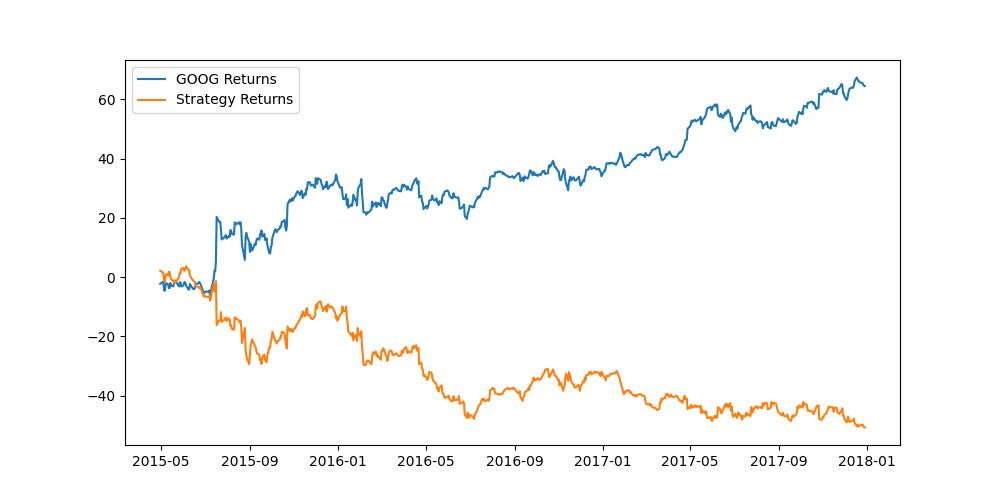
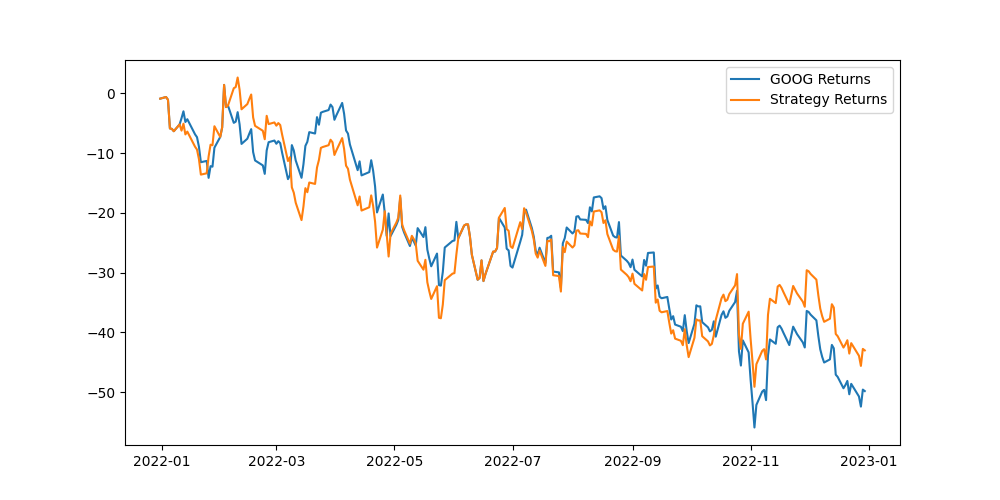
Changing to yahoo finance and making data more recent for machine learning strategies

diff --git a/3. MachineLearningStrategies/Lasso/Lasso.py b/3. MachineLearningStrategies/Lasso/Lasso.py
@@ -4,16 +4,10 @@ import matplotlib.pyplot as plt
 from sklearn.model_selection import train_test_split
 
 from pandas_datareader import data
-
-def load_financial_data(start_date, end_date, output_file):
-    try:
-        df = pd.read_pickle(output_file)
-        print('File data found...reading GOOG data')
-    except FileNotFoundError:
-        print('File not found...downloading the GOOG data')
-        df = data.DataReader('GOOG', 'yahoo', start_date, end_date)
-        df.to_pickle(output_file)
-    return df
+import yfinance as yf
+start_date = '2018-01-01'
+end_date = '2023-01-01'
+google_data_frame = yf.download('GOOG', start = start_date, end = end_date)
 
 def create_classification_trading_condition(df):
     df['Open-Close'] = df.Open - df.Close
@@ -35,12 +29,7 @@ def create_regression_trading_condition(df):
 def create_train_split_group(X, Y, split_ratio=0.8):
     return train_test_split(X, Y, shuffle=False, train_size=split_ratio)
 
-goog_data = load_financial_data(
-    start_date='2001-01-01',
-    end_date='2018-01-01',
-    output_file='goog_data_large.pkl')
-
-goog_data, X, Y = create_regression_trading_condition(goog_data)
+google_data_frame, X, Y = create_regression_trading_condition(google_data_frame)
 
 X_train,X_test,Y_train,Y_test=create_train_split_group(X,Y,split_ratio=0.8)
 
@@ -53,11 +42,11 @@ lasso.fit(X_train, Y_train)
 # The coefficients
 print('Coefficients: \n', lasso.coef_)
 
-goog_data['Predicted_Signal'] = lasso.predict(X)
-goog_data['GOOG_Returns'] = np.log(
-    goog_data['Close'] / goog_data['Close'].shift(1))
+google_data_frame['Predicted_Signal'] = lasso.predict(X)
+google_data_frame['GOOG_Returns'] = np.log(
+    google_data_frame['Close'] / google_data_frame['Close'].shift(1))
 
-print(goog_data.head())
+print(google_data_frame.head())
 def calculate_return(df, split_value, symbol):
     cum_goog_return = df[split_value:]['%s_Returns' % symbol].cumsum() * 100
     df['Strategy_Returns'] = df['%s_Returns' %
@@ -71,9 +60,9 @@ def calculate_strategy_return(df, split_value, symbol):
 
 
 cum_goog_return = calculate_return(
-    goog_data, split_value=len(X_train), symbol='GOOG')
+    google_data_frame, split_value=len(X_train), symbol='GOOG')
 cum_strategy_return = calculate_strategy_return(
-    goog_data, split_value=len(X_train), symbol='GOOG')
+    google_data_frame, split_value=len(X_train), symbol='GOOG')
 
 
 def plot_shart(cum_symbol_return, cum_strategy_return, symbol):

diff --git a/3. MachineLearningStrategies/Ridge/Ridge.py b/3. MachineLearningStrategies/Ridge/Ridge.py
@@ -5,15 +5,6 @@ from sklearn.model_selection import train_test_split
 
 from pandas_datareader import data
 
-def load_financial_data(start_date, end_date, output_file):
-    try:
-        df = pd.read_pickle(output_file)
-        print('File data found...reading GOOG data')
-    except FileNotFoundError:
-        print('File not found...downloading the GOOG data')
-        df = data.DataReader('GOOG', 'yahoo', start_date, end_date)
-        df.to_pickle(output_file)
-    return df
 
 def create_classification_trading_condition(df):
     df['Open-Close'] = df.Open - df.Close
@@ -35,12 +26,12 @@ def create_regression_trading_condition(df):
 def create_train_split_group(X, Y, split_ratio=0.8):
     return train_test_split(X, Y, shuffle=False, train_size=split_ratio)
 
-goog_data = load_financial_data(
-    start_date='2001-01-01',
-    end_date='2018-01-01',
-    output_file='goog_data_large.pkl')
+import yfinance as yf
+start_date = '2018-01-01'
+end_date = '2023-01-01'
+google_data_frame = yf.download('GOOG', start = start_date, end = end_date)
 
-goog_data, X, Y = create_regression_trading_condition(goog_data)
+google_data_frame, X, Y = create_regression_trading_condition(google_data_frame)
 
 X_train,X_test,Y_train,Y_test=create_train_split_group(X,Y,split_ratio=0.8)
 
@@ -53,11 +44,11 @@ ridge.fit(X_train, Y_train)
 # The coefficients
 print('Coefficients: \n', ridge.coef_)
 
-goog_data['Predicted_Signal'] = ridge.predict(X)
-goog_data['GOOG_Returns'] = np.log(
-    goog_data['Close'] / goog_data['Close'].shift(1))
+google_data_frame['Predicted_Signal'] = ridge.predict(X)
+google_data_frame['GOOG_Returns'] = np.log(
+    google_data_frame['Close'] / google_data_frame['Close'].shift(1))
 
-print(goog_data.head())
+print(google_data_frame.head())
 def calculate_return(df, split_value, symbol):
     cum_goog_return = df[split_value:]['%s_Returns' % symbol].cumsum() * 100
     df['Strategy_Returns'] = df['%s_Returns' %
@@ -71,9 +62,9 @@ def calculate_strategy_return(df, split_value, symbol):
 
 
 cum_goog_return = calculate_return(
-    goog_data, split_value=len(X_train), symbol='GOOG')
+    google_data_frame, split_value=len(X_train), symbol='GOOG')
 cum_strategy_return = calculate_strategy_return(
-    goog_data, split_value=len(X_train), symbol='GOOG')
+    google_data_frame, split_value=len(X_train), symbol='GOOG')
 
 
 def plot_shart(cum_symbol_return, cum_strategy_return, symbol):

diff --git a/3. MachineLearningStrategies/OrdinaryLeastSquares/OrdinaryLeastSquares.py b/3. MachineLearningStrategies/OrdinaryLeastSquares/OrdinaryLeastSquares.py
@@ -4,16 +4,8 @@ import matplotlib.pyplot as plt
 from sklearn.model_selection import train_test_split
 
 from pandas_datareader import data
+import yfinance as yf
 
-def load_financial_data(start_date, end_date, output_file):
-    try:
-        df = pd.read_pickle(output_file)
-        print('File data found...reading GOOG data')
-    except FileNotFoundError:
-        print('File not found...downloading the GOOG data')
-        df = data.DataReader('GOOG', 'yahoo', start_date, end_date)
-        df.to_pickle(output_file)
-    return df
 
 def create_classification_trading_condition(df):
     df['Open-Close'] = df.Open - df.Close
@@ -34,12 +26,12 @@ def create_regression_trading_condition(df):
 def create_train_split_group(X, Y, split_ratio=0.8):
     return train_test_split(X, Y, shuffle=False, train_size=split_ratio)
 
-goog_data = load_financial_data(
-start_date='2001-01-01',
-end_date='2018-01-01',
-output_file='goog_data_large.pkl')
 
-goog_data, X, Y = create_regression_trading_condition(goog_data)
+start_date = '2018-01-01'
+end_date = '2023-01-01'
+google_data_frame = yf.download('GOOG', start = start_date, end = end_date)
+
+google_data_frame, X, Y = create_regression_trading_condition(google_data_frame)
 
 X_train,X_test,Y_train,Y_test=create_train_split_group(X,Y,split_ratio=0.8)
 
@@ -49,10 +41,10 @@ ols = linear_model.LinearRegression()
 ols.fit(X_train,Y_train)
 print('Coeffecients: \n', ols.coef_)
 
-goog_data['Predicted_Signal'] = ols.predict(X)
-goog_data['GOOG_Returns'] = np.log(goog_data['Close'] / goog_data['Close'].shift(1))
+google_data_frame['Predicted_Signal'] = ols.predict(X)
+google_data_frame['GOOG_Returns'] = np.log(google_data_frame['Close'] / google_data_frame['Close'].shift(1))
 
-print(goog_data.head())
+print(google_data_frame.head())
 
 def calculate_return(df, split_value, symbol):
     goog_return = df[split_value:]['%s_Returns' % symbol].cumsum() * 100
@@ -66,9 +58,9 @@ def calculate_strategy_return(df, split_value, symbol):
 
 
 goog_return = calculate_return(
-    goog_data, split_value=len(X_train), symbol='GOOG')
+    google_data_frame, split_value=len(X_train), symbol='GOOG')
 strategy_return = calculate_strategy_return(
-    goog_data, split_value=len(X_train), symbol='GOOG')
+    google_data_frame, split_value=len(X_train), symbol='GOOG')
 
 
 def plot_shart(cum_symbol_return, cum_strategy_return, symbol):

diff --git a/3. MachineLearningStrategies/KNearestNeighbors/KNearestNeighbors.py b/3. MachineLearningStrategies/KNearestNeighbors/KNearestNeighbors.py
@@ -7,21 +7,18 @@ from sklearn.metrics import accuracy_score
 
 from pandas_datareader import data
 import yfinance as yf
+start_date = '2018-01-01'
+end_date = '2023-01-01'
+google_data_frame = yf.download('GOOG', start = start_date, end = end_date)
 
-start_date = '2000-01-01'
-end_date = '2023-07-01'
-SRC_DATA_FILENAME='goog_data_large.pkl'
-
-goog_data = yf.download('GOOG', start = start_date, end = end_date)
-
-goog_data['Open-Close']=goog_data.Open-goog_data.Close
-goog_data['High-Low']=goog_data.High-goog_data.Low
-goog_data=goog_data.dropna()
-X=goog_data[['Open-Close','High-Low']]
-Y=np.where(goog_data['Close'].shift(-1)>goog_data['Close'],1,-1)
+google_data_frame['Open-Close']=google_data_frame.Open-google_data_frame.Close
+google_data_frame['High-Low']=google_data_frame.High-google_data_frame.Low
+google_data_frame=google_data_frame.dropna()
+X=google_data_frame[['Open-Close','High-Low']]
+Y=np.where(google_data_frame['Close'].shift(-1)>google_data_frame['Close'],1,-1)
 
 split_ratio=0.8
-split_value=int(split_ratio * len(goog_data))
+split_value=int(split_ratio * len(google_data_frame))
 X_train=X[:split_value]
 Y_train=Y[:split_value]
 X_test=X[split_value:]
@@ -36,9 +33,9 @@ accuracy_test = accuracy_score(Y_test, knn.predict(X_test))
 
 
 
-goog_data['Predicted_Signal']=knn.predict(X)
-goog_data['GOOG_Returns']=np.log(goog_data['Close']/
-                                 goog_data['Close'].shift(1))
+google_data_frame['Predicted_Signal']=knn.predict(X)
+google_data_frame['GOOG_Returns']=np.log(google_data_frame['Close']/
+                                 google_data_frame['Close'].shift(1))
 
 
 def calculate_return(df,split_value,symbol):
@@ -50,8 +47,8 @@ def calculate_strategy_return(df,split_value):
     cum_strategy_return = df[split_value:]['Strategy_Returns'].cumsum() * 100
     return cum_strategy_return
 
-cum_goog_return=calculate_return(goog_data,split_value=len(X_train),symbol='GOOG')
-cum_strategy_return= calculate_strategy_return(goog_data,split_value=len(X_train))
+cum_goog_return=calculate_return(google_data_frame,split_value=len(X_train),symbol='GOOG')
+cum_strategy_return= calculate_strategy_return(google_data_frame,split_value=len(X_train))
 
 
 def plot_shart(cum_symbol_return, cum_strategy_return, symbol):

diff --git a/3. MachineLearningStrategies/SupportVectorMachine/SupportVectorMachine.py b/3. MachineLearningStrategies/SupportVectorMachine/SupportVectorMachine.py
@@ -8,19 +8,12 @@ from sklearn.model_selection import train_test_split
 
 from pandas_datareader import data
 
-def load_financial_data(start_date, end_date,output_file):
-    try:
-        df = pd.read_pickle(output_file)
-        print('File data found...reading GOOG data')
-    except FileNotFoundError:
-        print('File not found...downloading the GOOG data')
-        df = data.DataReader('GOOG', 'yahoo', start_date, end_date)
-        df.to_pickle(output_file)
-    return df
 
-goog_data=load_financial_data(start_date='2001-01-01',
-                    end_date = '2018-01-01',
-                    output_file='goog_data_large.pkl')
+
+import yfinance as yf
+start_date = '2018-01-01'
+end_date = '2023-01-01'
+google_data_frame = yf.download('GOOG', start = start_date, end = end_date)
 
 
 
@@ -36,7 +29,7 @@ def create_trading_condition(df):
 def create_train_split_group(X,Y,split_ratio=0.8):
     return train_test_split(X,Y,shuffle=False,train_size=split_ratio)
 
-X,Y=create_trading_condition(goog_data)
+X,Y=create_trading_condition(google_data_frame)
 
 X_train,X_test,Y_train,Y_test=\
     create_train_split_group(X,Y,split_ratio=0.8)
@@ -45,9 +38,9 @@ X_train,X_test,Y_train,Y_test=\
 svc=SVC()
 svc.fit(X_train, Y_train)
 
-goog_data['Predicted_Signal']=svc.predict(X)
-goog_data['GOOG_Returns']=np.log(goog_data['Close']/
-                                 goog_data['Close'].shift(1))
+google_data_frame['Predicted_Signal']=svc.predict(X)
+google_data_frame['GOOG_Returns']=np.log(google_data_frame['Close']/
+                                 google_data_frame['Close'].shift(1))
 
 
 def calculate_return(df,split_value,symbol):
@@ -59,8 +52,8 @@ def calculate_strategy_return(df,split_value):
     cum_strategy_return = df[split_value:]['Strategy_Returns'].cumsum() * 100
     return cum_strategy_return
 
-cum_goog_return=calculate_return(goog_data,split_value=len(X_train),symbol='GOOG')
-cum_strategy_return= calculate_strategy_return(goog_data,split_value=len(X_train))
+cum_goog_return=calculate_return(google_data_frame,split_value=len(X_train),symbol='GOOG')
+cum_strategy_return= calculate_strategy_return(google_data_frame,split_value=len(X_train))
 
 
 def plot_shart(cum_symbol_return, cum_strategy_return, symbol):

diff --git a/3. MachineLearningStrategies/Logistic/Logistic.py b/3. MachineLearningStrategies/Logistic/Logistic.py
@@ -6,21 +6,18 @@ from sklearn.linear_model import LogisticRegression
 
 
 import yfinance as yf
-
-start_date = '2005-01-01'
+start_date = '2018-01-01'
 end_date = '2023-01-01'
-SRC_DATA_FILENAME='goog_data_large.pkl'
+google_data_frame = yf.download('GOOG', start = start_date, end = end_date)
 
-goog_data = yf.download('GOOG', start = start_date, end = end_date)
-
-goog_data['Open-Close']=goog_data.Open-goog_data.Close
-goog_data['High-Low']=goog_data.High-goog_data.Low
-goog_data=goog_data.dropna()
-X=goog_data[['Open-Close','High-Low']]
-Y=np.where(goog_data['Close'].shift(-1)>goog_data['Close'],1,-1)
+google_data_frame['Open-Close']=google_data_frame.Open-google_data_frame.Close
+google_data_frame['High-Low']=google_data_frame.High-google_data_frame.Low
+google_data_frame=google_data_frame.dropna()
+X=google_data_frame[['Open-Close','High-Low']]
+Y=np.where(google_data_frame['Close'].shift(-1)>google_data_frame['Close'],1,-1)
 
 split_ratio=0.8
-split_value=int(split_ratio * len(goog_data))
+split_value=int(split_ratio * len(google_data_frame))
 X_train=X[:split_value]
 Y_train=Y[:split_value]
 X_test=X[split_value:]
@@ -34,8 +31,8 @@ accuracy_test = accuracy_score(Y_test, logistic.predict(X_test))
 print(accuracy_train, accuracy_test)
 
 
-goog_data['Predicted_Signal']=logistic.predict(X)
-goog_data['GOOG_Returns']=np.log(goog_data['Close']/goog_data['Close'].shift(1))
+google_data_frame['Predicted_Signal']=logistic.predict(X)
+google_data_frame['GOOG_Returns']=np.log(google_data_frame['Close']/google_data_frame['Close'].shift(1))
 
 
 def calculate_return(df,split_value,symbol):
@@ -47,8 +44,8 @@ def calculate_strategy_return(df,split_value):
     cum_strategy_return = df[split_value:]['Strategy_Returns'].cumsum() * 100
     return cum_strategy_return
 
-cum_goog_return=calculate_return(goog_data,split_value=len(X_train),symbol='GOOG')
-cum_strategy_return= calculate_strategy_return(goog_data,split_value=len(X_train))
+cum_goog_return=calculate_return(google_data_frame,split_value=len(X_train),symbol='GOOG')
+cum_strategy_return= calculate_strategy_return(google_data_frame,split_value=len(X_train))
 
 
 def plot_shart(cum_symbol_return, cum_strategy_return, symbol):

diff --git a/3. MachineLearningStrategies/ScatterPlot/Scatter.py b/3. MachineLearningStrategies/ScatterPlot/Scatter.py
@@ -22,12 +22,12 @@ def create_regression_trading_condition(df):
     Y = df[['Target']]
     return (df, X, Y)
 
-goog_data = load_financial_data(
-    start_date='2001-01-01',
-    end_date='2018-01-01',
-    output_file='goog_data_large.pkl')
+import yfinance as yf
+start_date = '2018-01-01'
+end_date = '2023-01-01'
+google_data_frame = yf.download('GOOG', start = start_date, end = end_date)
 
-create_regression_trading_condition(goog_data)
+create_regression_trading_condition(google_data_frame)
 
-pd.plotting.scatter_matrix(goog_data[['Open-Close', 'High-Low', 'Target']], grid=True, diagonal='kde', alpha=0.5)
+pd.plotting.scatter_matrix(google_data_frame[['Open-Close', 'High-Low', 'Target']], grid=True, diagonal='kde', alpha=0.5)
 plt.show()
